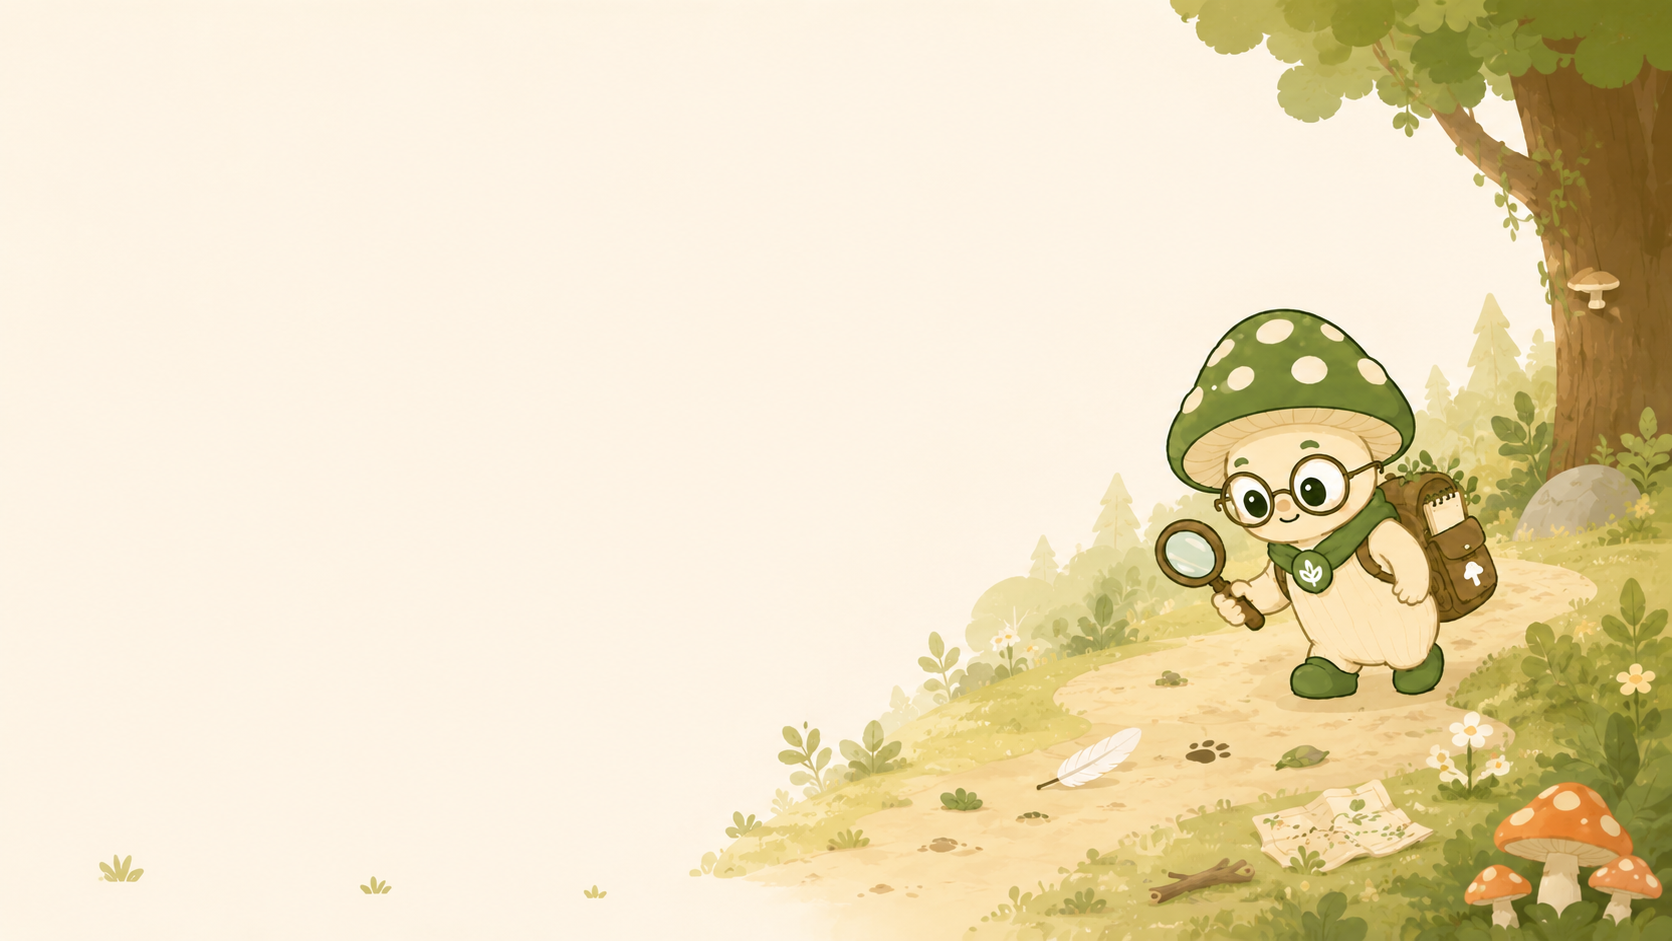
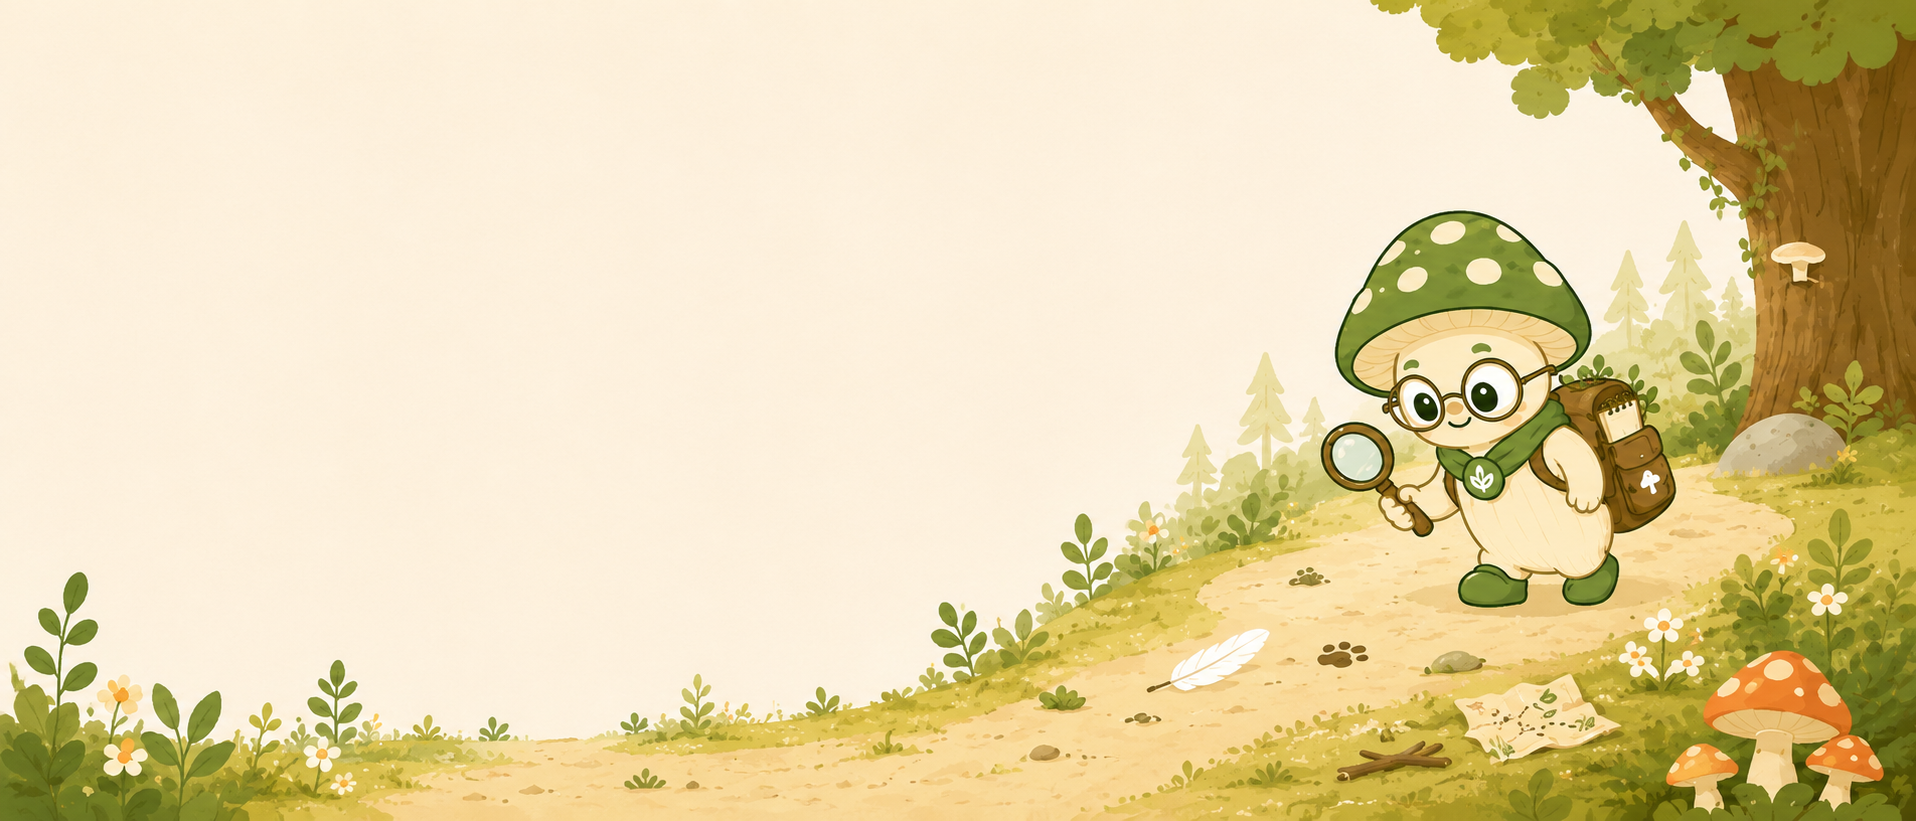
feat: Update HeroSection layout and hero image for improved visual presentation

Changed region(s): [[0.0, 0.0, 1.0, 1.0], [0.9952, 0.3045, 1.0, 0.335]]

diff --git a/docs/changelog.md b/docs/changelog.md
@@ -21,3 +21,4 @@ This log records broad project changes so humans and agents can recover context 
 | 2026-06-01T15:59:27Z | MODIFIED | 20260601-git-commit-rules | Clarified that every completed project change should be committed, including small documentation and rule updates. |
 | 2026-06-01T16:05:48Z | CREATED | 20260601-landing-pages-plan | Added a frontend shell plan for the public landing pages and hero direction. |
 | 2026-06-01T17:11:30Z | MODIFIED | 20260601-landing-frontend-shell | Implemented the public landing shell with hero, sections, navigation, route pages, and shared layout. |
+| 2026-06-01T17:25:00Z | MODIFIED | 20260601-landing-hero-layout | Made the front-page hero image full-bleed edge to edge and removed rounded corners and scroll hint. |
